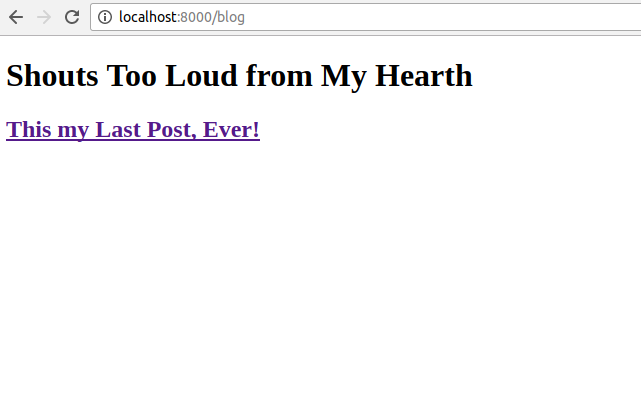
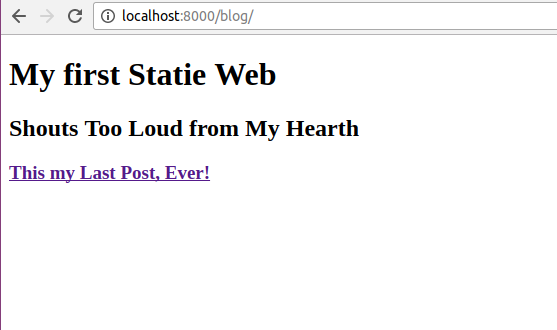
final changes

Changed region(s): [[0.0, 0.1515, 0.763, 0.4242], [0.0, 0.0, 1.0, 0.1212], [0.0, 0.4848, 0.3968, 0.5758]]

diff --git a/source/_posts/2017/2017-03-06-statie-4-how-to-create-the-simplest-blog.md b/source/_posts/2017/2017-03-06-statie-4-how-to-create-the-simplest-blog.md
@@ -12,7 +12,7 @@ lang: en
 
 ## Create a Blog Page
 
-This might be the simplest page to show all you posts:
+This might be the simplest page to show all your posts:
 
 
 ```html
@@ -23,11 +23,11 @@ layout: default
 ---
 
 ❴block content❵
-    <h1>Shouts Too Loud from My Hearth</h1>
+    <h2>Shouts Too Loud from My Hearth</h2>
 
     ❴foreach $posts as $post❵
         <a href="/❴$post['relativeUrl']❵/">
-            <h2>❴$post['title']❵</h2>
+            <h3>❴$post['title']❵</h3>
         </a>
     ❴/foreach❵
 ❴/block❵
@@ -53,22 +53,47 @@ Statie will do 3 steps:
 
 ## How does a Post Content Look Like?
 
-```twig
+```html
 <!-- source/_posts/2017-03-05-my-last-post.md -->
 
 ---
+layout: "post"
 title: "This my Last Post, Ever!"
 ---
 
-# Begin by Letting Go
-
-- I was always afraid of writing my feelings. I though everybody would hate me.
-
-Not really a problem anymoogre.
-
-I realized, *feelings are like color of skin*.
-**You are born with them and they are part you nature...**
+This is my last post to all
 ```
+
+### How to Show Post in Own Layout
+
+As you can see, post has `layout: post`. It means it's displayed in `_layouts/post.latte`:
+
+```twig
+<!-- /source/_layouts/post.latte -->
+
+❴extends "default"❵
+
+❴block content_wrapper❵
+    <h2>❴$post['title']❵</h2>
+
+    ❴$post['content']|noescape❵
+❴/block❵
+```
+
+We have to also modify `default.latte, to include our post layout and replacte `❴block content}❴/block❵` with.
+
+```twig
+<!-- /source/_layouts/default.latte -->
+...
+
+❴block content_wrapper❵
+    ❴block content}❴/block❵
+❴/block❵
+
+...
+```
+
+That should be it.
 
 Save file, [look on the blog page](http://localhost:8000/blog) and see:
 
@@ -122,11 +147,11 @@ Would produce url:
 my-blog/2017/my-last-post/
 ```
 
-Go it? I know you do! **You are smart.**
+Got it? I know you do! **You are smart.**
 
 
 
-In one of the next posts, I will you some cool `Post` object features.
+In one of the next posts, I will show you some cool `PostFile` object features.
 
 
 ## Now You Know
